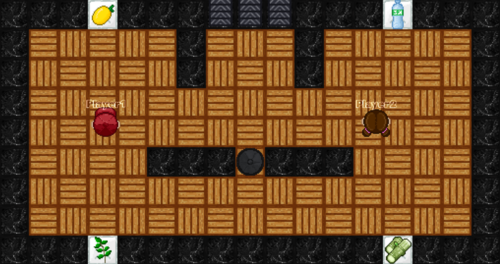
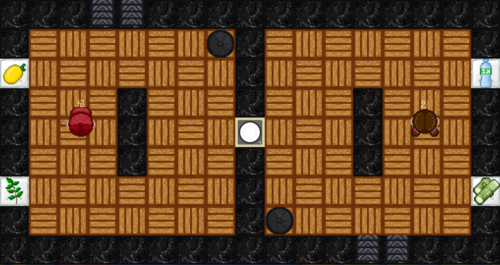
.

diff --git a/menu/menu.c b/menu/menu.c
@@ -504,7 +504,7 @@ void ChoisirNiveau(ComposantsJeu *jeu, Niveau *niveau, bool *niveauChoisi) {
     Bouton boutonNiveaux[] = {
             {425, 200, 400, 70, "Level 1", al_load_bitmap("../images/ApercuMapNiveau1.png")},
             {425, 200, 400, 70, "Level 2", al_load_bitmap("../images/ApercuMapNiveau2.png")},
-            {425, 200, 400, 70, "Level 3", al_load_bitmap("../images/apercu map.png")}
+            {425, 200, 400, 70, "Level 3", al_load_bitmap("../images/ApercuMapNiveau3.png")}
     };
     int nbNiveaux = sizeof(boutonNiveaux) / sizeof(boutonNiveaux[0]);
 

diff --git a/jeu/jeu.c b/jeu/jeu.c
@@ -6,7 +6,7 @@ void InitialiserFenetreFileTimer(ComposantsJeu *jeu) {
     jeu->fenetre = al_create_display(DISPLAY_WIDTH, DISPLAY_HEIGHT);
     jeu->file = al_create_event_queue();
     jeu->timer = al_create_timer(1.0 / 60.0);
-    jeu->DureePartie = 10;
+    jeu->DureePartie = 180;
     al_register_event_source(jeu->file, al_get_display_event_source(jeu->fenetre));
     al_register_event_source(jeu->file, al_get_keyboard_event_source());
     al_register_event_source(jeu->file, al_get_mouse_event_source());
